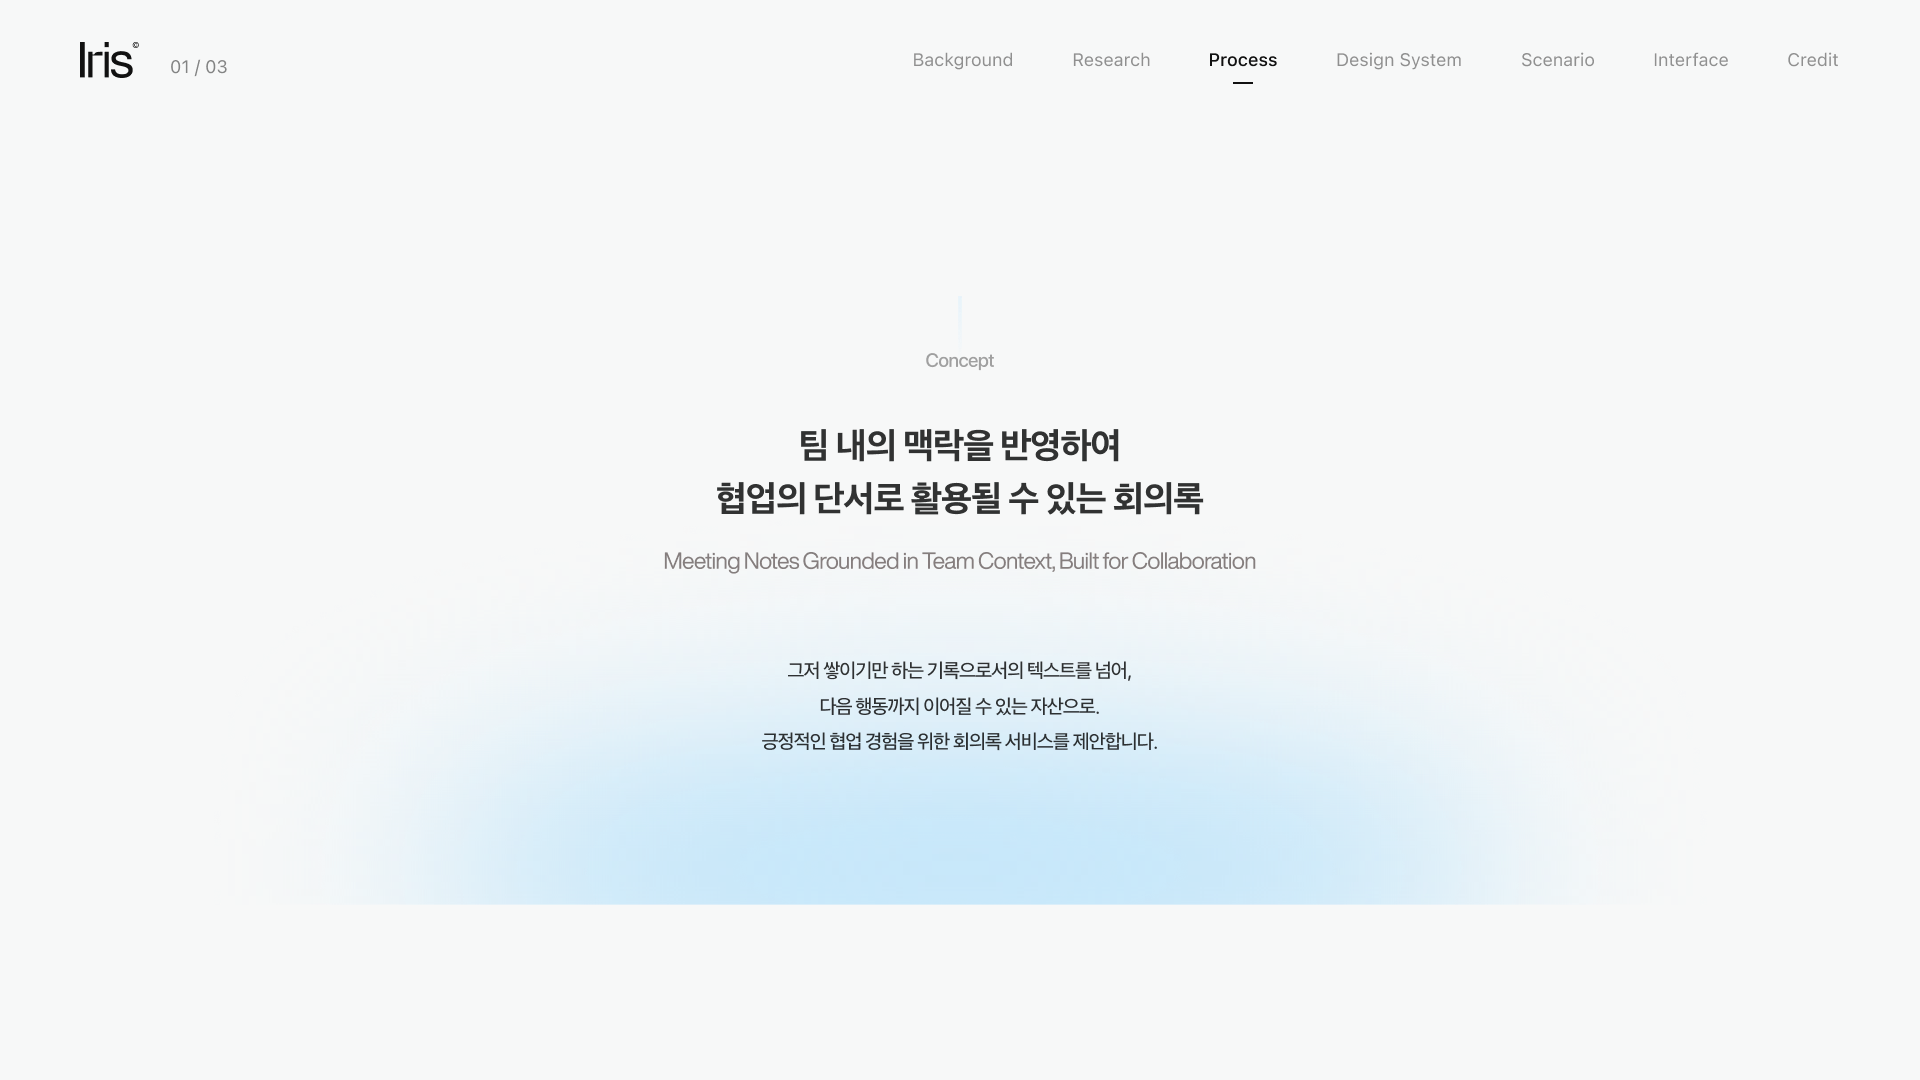
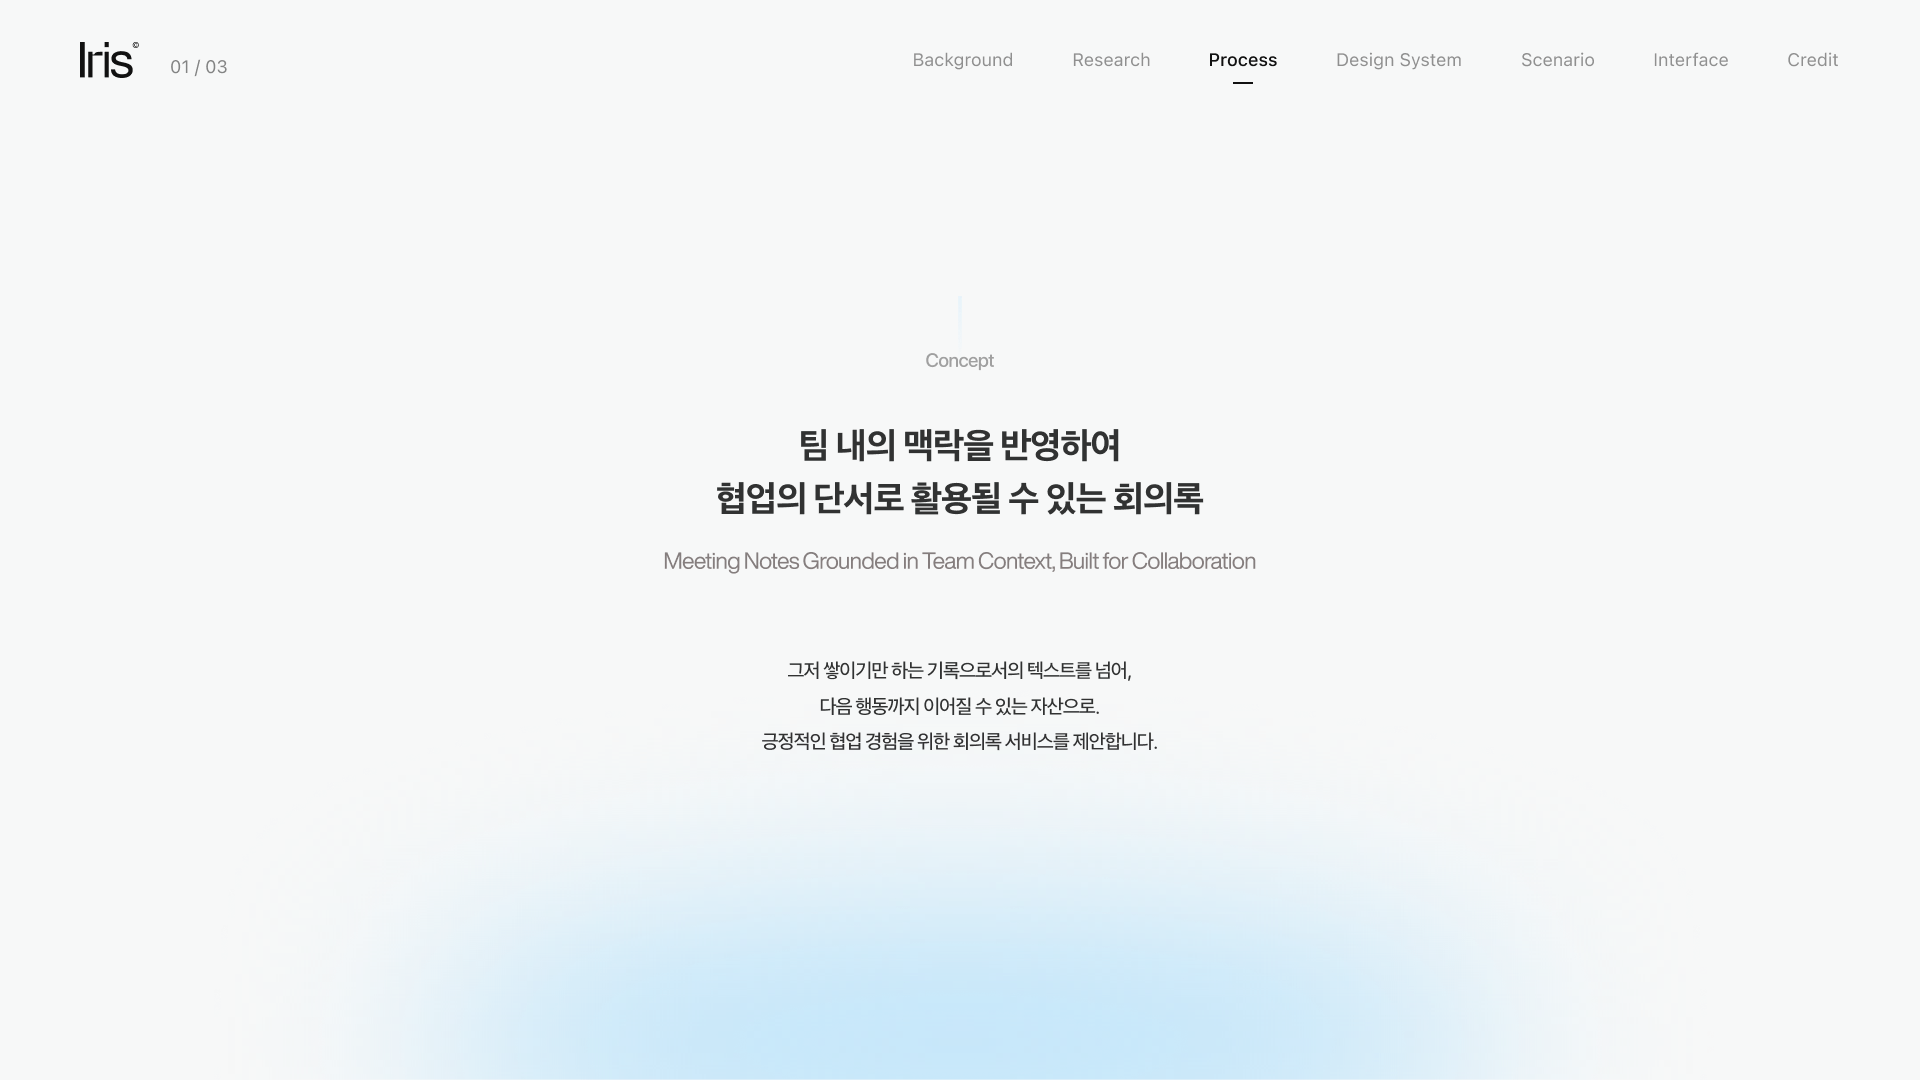
Credit: Ichika·Wakana 두 사람으로 분리(65명), Concept 하단 그라디언트를 화면 아래에 맞춤, 버튼을 배경 밝기에 맞춰 양쪽 따로(밝으면 흰 원+검은 화살표, 어두우면 반투명+흰 화살표), Research 01 끝난 뒤 되감지 않고 아래에 머묾, 손대지 않을 때 새 버전 자동 반영

Changed region(s): [[0.25, 0.6417, 0.75, 1.0]]

diff --git a/media/portrait.js b/media/portrait.js
@@ -1,1 +1,1 @@
-var PORTRAIT = {"01-01": {"bg": ["rgb(255,255,255)", "rgb(255,255,255)"], "wins": [[176, 235, 801, 654, 224.4, 380.0, 1.2374, true, false], [1152, 125, 768, 955, 314.6, 1271.8, 1.0558, true, false]], "nav": "rgb(255,255,255)"}, "01-02": {"bg": ["rgb(247,248,248)", "rgb(247,248,248)"], "wins": [[156, 204, 496, 668, 415.9, 380.0, 1.2262, true, false], [820, 125, 943, 955, 226.7, 1280.9, 1.0462, true, false]], "nav": "rgb(247,248,248)"}, "02-01": {"bg": ["rgb(32,33,40) 0%", "rgb(32,33,40) 26.84%", "rgb(255,255,255) 77.06%", "rgb(255,255,255) 100%"], "wins": [[0, 0, 1920, 1714, 0, 687.2, 0.75, true, false]], "nav": "rgb(32,33,40)"}, "02-02": {"bg": ["rgb(255,255,255)", "rgb(255,255,255)"], "wins": [[148, 206, 454, 604, 413.5, 497.9, 1.35, true, false], [743, 350, 1028, 591, 60.0, 1403.3, 1.284, true, false]], "nav": "rgb(255,255,255)"}, "02-03": {"bg": ["rgb(244,245,245)", "rgb(244,245,245)"], "wins": [[106, 175, 752, 895, 336.6, 380.0, 1.0197, true, false], [971, 125, 949, 955, 266.5, 1367.3, 0.9557, true, false]], "nav": "rgb(244,245,245)"}, "02-04": {"bg": ["rgb(154,197,234) 0%", "rgb(154,197,234) 23.34%", "rgb(247,248,248) 80.56%", "rgb(247,248,248) 100%"], "wins": [[0, 0, 1920, 1953, 0, 597.6, 0.75, true, false]], "nav": "rgb(154,197,234)"}, "03-01": {"bg": ["rgb(247,248,248)", "rgb(247,248,248)"], "wins": [[424, 309, 1070, 639, 40.0, 923.9, 1.271, true, false]], "nav": "rgb(247,248,248)"}, "03-02": {"bg": ["rgb(8,8,8)", "rgb(8,8,8)"], "wins": [[243, 190, 421, 232, 435.8, 578.4, 1.35, true, false], [950, 125, 970, 955, 161.4, 981.6, 1.1518, true, false]], "nav": "rgb(8,8,8)"}, "03-03": {"bg": ["rgb(247,248,248) 0%", "rgb(247,248,248) 21.05%", "rgb(247,248,248) 82.86%", "rgb(247,248,248) 100%"], "wins": [[0, 0, 1920, 2110, 0, 538.8, 0.75, true, false]], "nav": "rgb(247,248,248)"}, "04-01": {"bg": ["rgb(245,247,251)", "rgb(245,247,251)"], "wins": [[180, 120, 1560, 960, 60.0, 923.8, 0.8462, true, false]], "nav": "rgb(245,247,251)"}, "04-02": {"bg": ["rgb(11,12,19)", "rgb(11,12,19)"], "wins": [[284, 125, 1340, 955, 40.0, 845.4, 1.0149, true, false]], "nav": "rgb(11,12,19)"}, "04-03": {"bg": ["rgb(13,14,21) 0%", "rgb(13,14,21) 24.57%", "rgb(13,14,21) 79.33%", "rgb(13,14,21) 100%"], "wins": [[0, 0, 1920, 1869, 0, 629.1, 0.75, true, false]], "nav": "rgb(13,14,21)"}, "04-04": {"bg": ["rgb(179,214,238)", "rgb(179,214,238)"], "wins": [[47, 133, 690, 934, 382.9, 380.0, 0.9772, true, false], [827, 125, 1093, 955, 197.7, 1367.3, 0.9557, true, false]], "nav": "rgb(179,214,238)"}, "05-01": {"bg": ["rgb(12,12,12)", "rgb(10,8,8)"], "wins": [[0, 125, 1697, 955, 40.0, 947.3, 0.8014, true, false]], "nav": "rgb(12,12,12)"}, "06-01": {"bg": ["rgb(253,255,255)", "rgb(253,255,255)"], "wins": [[172, 430, 554, 340, 346.0, 615.8, 1.35, false, false], [862, 288, 921, 623, 70.0, 1164.8, 1.4115, true, false]], "nav": "rgb(253,255,255)"}, "06-02": {"bg": ["rgb(232,238,244)", "rgb(232,238,244)"], "wins": [[782, 206, 356, 181, 488.6, 767.1, 1.3, false, false], [435, 392, 1049, 652, 60.0, 1072.4, 1.2583, true, false]], "nav": "rgb(232,238,244)"}, "06-03": {"bg": ["rgb(11,12,19)", "rgb(11,12,19)"], "wins": [[805, 170, 310, 220, 518.5, 725.0, 1.3, false, false], [436, 392, 1048, 678, 60.0, 1081.0, 1.2595, true, false]], "nav": "rgb(11,12,19)"}, "06-04": {"bg": ["rgb(11,12,19)", "rgb(11,12,19)"], "wins": [[818, 170, 285, 220, 534.8, 728.2, 1.3, false, false], [436, 392, 1048, 673, 60.0, 1084.2, 1.2595, true, false]], "nav": "rgb(11,12,19)"}, "06-05": {"bg": ["rgb(11,12,19)", "rgb(41,49,63)"], "wins": [[829, 171, 262, 214, 549.7, 729.3, 1.3, false, true], [436, 392, 1049, 678, 60.0, 1077.5, 1.2583, true, true]], "nav": "rgb(11,12,19)"}, "06-06": {"bg": ["rgb(41,43,48)", "rgb(41,43,48)"], "wins": [[221, 127, 1479, 953, 40.0, 891.8, 0.9195, true, false]], "nav": "rgb(41,43,48)"}, "06-07": {"bg": ["rgb(38,42,44)", "rgb(38,42,44)"], "wins": [[760, 125, 400, 265, 460.0, 689.5, 1.3, false, false], [436, 392, 1048, 688, 60.0, 1104.0, 1.2595, true, false]], "nav": "rgb(38,42,44)"}, "06-08": {"bg": ["rgb(38,42,44)", "rgb(38,42,44)"], "wins": [[332, 125, 1255, 730, 40.0, 934.5, 1.0837, true, false]], "nav": "rgb(38,42,44)"}, "06-09": {"bg": ["rgb(244,248,251)", "rgb(244,248,251)"], "wins": [[230, 407, 439, 387, 423.7, 462.7, 1.35, false, false], [862, 202, 921, 795, 70.0, 1075.2, 1.4115, true, false]], "nav": "rgb(244,248,251)"}, "06-10": {"bg": ["rgb(255,255,255)", "rgb(255,255,255)"], "wins": [[278, 125, 1363, 955, 40.0, 853.6, 0.9978, true, false]], "nav": "rgb(255,255,255)"}, "06-11": {"bg": ["rgb(235,240,246)", "rgb(235,240,246)"], "wins": [[157, 290, 550, 618, 379.9, 380.0, 1.2366, false, false], [872, 156, 915, 887, 176.7, 1226.6, 1.1876, true, false]], "nav": "rgb(235,240,246)"}, "06-12": {"bg": ["rgb(232,238,244)", "rgb(232,238,244)"], "wins": [[178, 156, 1565, 886, 40.0, 945.0, 0.869, true, false]], "nav": "rgb(232,238,244)"}, "06-13": {"bg": ["rgb(235,240,246)", "rgb(235,240,246)"], "wins": [[156, 448, 704, 303, 244.8, 505.5, 1.35, false, false], [862, 156, 877, 887, 151.5, 1004.5, 1.2965, true, false]], "nav": "rgb(235,240,246)"}, "06-14": {"bg": ["rgb(235,240,246)", "rgb(235,240,246)"], "wins": [[157, 459, 703, 287, 245.5, 660.1, 1.35, false, false], [862, 294, 921, 611, 70.0, 1137.5, 1.4115, true, false]], "nav": "rgb(235,240,246)"}, "06-15": {"bg": ["rgb(235,240,246)", "rgb(235,240,246)"], "wins": [[156, 473, 704, 253, 244.8, 753.9, 1.35, false, false], [862, 350, 773, 497, 159.6, 1185.5, 1.45, true, false]], "nav": "rgb(235,240,246)"}, "07-01": {"bg": ["rgb(255,255,255)", "rgb(255,255,255)"], "wins": [[176, 284, 652, 632, 308.6, 380.0, 1.2619, true, false], [1125, 198, 612, 807, 333.9, 1261.6, 1.2619, true, false]], "nav": "rgb(255,255,255)"}, "07-02": {"bg": ["rgb(255,255,255) 0%", "rgb(255,255,255) 33.85%", "rgb(255,255,255) 70.06%", "rgb(255,255,255) 100%"], "wins": [[0, 0, 1920, 1236, 0, 866.5, 0.75, true, false]], "nav": "rgb(255,255,255)"}};
+var PORTRAIT = {"01-01": {"bg": ["rgb(255,255,255)", "rgb(255,255,255)"], "wins": [[176, 235, 801, 654, 224.4, 380.0, 1.2374, true, false], [1152, 125, 768, 955, 314.6, 1271.8, 1.0558, true, false]], "nav": "rgb(255,255,255)"}, "01-02": {"bg": ["rgb(247,248,248)", "rgb(247,248,248)"], "wins": [[156, 204, 496, 668, 415.9, 380.0, 1.2262, true, false], [820, 125, 943, 955, 226.7, 1280.9, 1.0462, true, false]], "nav": "rgb(247,248,248)"}, "02-01": {"bg": ["rgb(32,33,40) 0%", "rgb(32,33,40) 26.84%", "rgb(255,255,255) 77.06%", "rgb(255,255,255) 100%"], "wins": [[0, 0, 1920, 1714, 0, 687.2, 0.75, true, false]], "nav": "rgb(32,33,40)"}, "02-02": {"bg": ["rgb(255,255,255)", "rgb(255,255,255)"], "wins": [[148, 206, 454, 604, 413.5, 497.9, 1.35, true, false], [743, 350, 1028, 591, 60.0, 1403.3, 1.284, true, false]], "nav": "rgb(255,255,255)"}, "02-03": {"bg": ["rgb(244,245,245)", "rgb(244,245,245)"], "wins": [[106, 175, 752, 895, 336.6, 380.0, 1.0197, true, false], [971, 125, 949, 955, 266.5, 1367.3, 0.9557, true, false]], "nav": "rgb(244,245,245)"}, "02-04": {"bg": ["rgb(154,197,234) 0%", "rgb(154,197,234) 23.34%", "rgb(247,248,248) 80.56%", "rgb(247,248,248) 100%"], "wins": [[0, 0, 1920, 1953, 0, 597.6, 0.75, true, false]], "nav": "rgb(154,197,234)"}, "03-01": {"bg": ["rgb(247,248,248)", "rgb(247,248,248)"], "wins": [[420, 309, 1081, 771, 40.0, 845.0, 1.2581, true, false]], "nav": "rgb(247,248,248)"}, "03-02": {"bg": ["rgb(8,8,8)", "rgb(8,8,8)"], "wins": [[243, 190, 421, 232, 435.8, 578.4, 1.35, true, false], [950, 125, 970, 955, 161.4, 981.6, 1.1518, true, false]], "nav": "rgb(8,8,8)"}, "03-03": {"bg": ["rgb(247,248,248) 0%", "rgb(247,248,248) 21.05%", "rgb(247,248,248) 82.86%", "rgb(247,248,248) 100%"], "wins": [[0, 0, 1920, 2110, 0, 538.8, 0.75, true, false]], "nav": "rgb(247,248,248)"}, "04-01": {"bg": ["rgb(245,247,251)", "rgb(245,247,251)"], "wins": [[180, 120, 1560, 960, 60.0, 923.8, 0.8462, true, false]], "nav": "rgb(245,247,251)"}, "04-02": {"bg": ["rgb(11,12,19)", "rgb(11,12,19)"], "wins": [[284, 125, 1340, 955, 40.0, 845.4, 1.0149, true, false]], "nav": "rgb(11,12,19)"}, "04-03": {"bg": ["rgb(13,14,21) 0%", "rgb(13,14,21) 24.57%", "rgb(13,14,21) 79.33%", "rgb(13,14,21) 100%"], "wins": [[0, 0, 1920, 1869, 0, 629.1, 0.75, true, false]], "nav": "rgb(13,14,21)"}, "04-04": {"bg": ["rgb(179,214,238)", "rgb(179,214,238)"], "wins": [[47, 133, 690, 934, 382.9, 380.0, 0.9772, true, false], [827, 125, 1093, 955, 197.7, 1367.3, 0.9557, true, false]], "nav": "rgb(179,214,238)"}, "05-01": {"bg": ["rgb(12,12,12)", "rgb(10,8,8)"], "wins": [[0, 125, 1697, 955, 40.0, 947.3, 0.8014, true, false]], "nav": "rgb(12,12,12)"}, "06-01": {"bg": ["rgb(253,255,255)", "rgb(253,255,255)"], "wins": [[172, 430, 554, 340, 346.0, 615.8, 1.35, false, false], [862, 288, 921, 623, 70.0, 1164.8, 1.4115, true, false]], "nav": "rgb(253,255,255)"}, "06-02": {"bg": ["rgb(232,238,244)", "rgb(232,238,244)"], "wins": [[782, 206, 356, 181, 488.6, 767.1, 1.3, false, false], [435, 392, 1049, 652, 60.0, 1072.4, 1.2583, true, false]], "nav": "rgb(232,238,244)"}, "06-03": {"bg": ["rgb(11,12,19)", "rgb(11,12,19)"], "wins": [[805, 170, 310, 220, 518.5, 725.0, 1.3, false, false], [436, 392, 1048, 678, 60.0, 1081.0, 1.2595, true, false]], "nav": "rgb(11,12,19)"}, "06-04": {"bg": ["rgb(11,12,19)", "rgb(11,12,19)"], "wins": [[818, 170, 285, 220, 534.8, 728.2, 1.3, false, false], [436, 392, 1048, 673, 60.0, 1084.2, 1.2595, true, false]], "nav": "rgb(11,12,19)"}, "06-05": {"bg": ["rgb(11,12,19)", "rgb(41,49,63)"], "wins": [[829, 171, 262, 214, 549.7, 729.3, 1.3, false, true], [436, 392, 1049, 678, 60.0, 1077.5, 1.2583, true, true]], "nav": "rgb(11,12,19)"}, "06-06": {"bg": ["rgb(41,43,48)", "rgb(41,43,48)"], "wins": [[221, 127, 1479, 953, 40.0, 891.8, 0.9195, true, false]], "nav": "rgb(41,43,48)"}, "06-07": {"bg": ["rgb(38,42,44)", "rgb(38,42,44)"], "wins": [[760, 125, 400, 265, 460.0, 689.5, 1.3, false, false], [436, 392, 1048, 688, 60.0, 1104.0, 1.2595, true, false]], "nav": "rgb(38,42,44)"}, "06-08": {"bg": ["rgb(38,42,44)", "rgb(38,42,44)"], "wins": [[332, 125, 1255, 730, 40.0, 934.5, 1.0837, true, false]], "nav": "rgb(38,42,44)"}, "06-09": {"bg": ["rgb(244,248,251)", "rgb(244,248,251)"], "wins": [[230, 407, 439, 387, 423.7, 462.7, 1.35, false, false], [862, 202, 921, 795, 70.0, 1075.2, 1.4115, true, false]], "nav": "rgb(244,248,251)"}, "06-10": {"bg": ["rgb(255,255,255)", "rgb(255,255,255)"], "wins": [[278, 125, 1363, 955, 40.0, 853.6, 0.9978, true, false]], "nav": "rgb(255,255,255)"}, "06-11": {"bg": ["rgb(235,240,246)", "rgb(235,240,246)"], "wins": [[157, 290, 550, 618, 379.9, 380.0, 1.2366, false, false], [872, 156, 915, 887, 176.7, 1226.6, 1.1876, true, false]], "nav": "rgb(235,240,246)"}, "06-12": {"bg": ["rgb(232,238,244)", "rgb(232,238,244)"], "wins": [[178, 156, 1565, 886, 40.0, 945.0, 0.869, true, false]], "nav": "rgb(232,238,244)"}, "06-13": {"bg": ["rgb(235,240,246)", "rgb(235,240,246)"], "wins": [[156, 448, 704, 303, 244.8, 505.5, 1.35, false, false], [862, 156, 877, 887, 151.5, 1004.5, 1.2965, true, false]], "nav": "rgb(235,240,246)"}, "06-14": {"bg": ["rgb(235,240,246)", "rgb(235,240,246)"], "wins": [[157, 459, 703, 287, 245.5, 660.1, 1.35, false, false], [862, 294, 921, 611, 70.0, 1137.5, 1.4115, true, false]], "nav": "rgb(235,240,246)"}, "06-15": {"bg": ["rgb(235,240,246)", "rgb(235,240,246)"], "wins": [[156, 473, 704, 253, 244.8, 753.9, 1.35, false, false], [862, 350, 773, 497, 159.6, 1185.5, 1.45, true, false]], "nav": "rgb(235,240,246)"}, "07-01": {"bg": ["rgb(255,255,255)", "rgb(255,255,255)"], "wins": [[176, 284, 652, 632, 308.6, 380.0, 1.2619, true, false], [1125, 198, 612, 807, 333.9, 1261.6, 1.2619, true, false]], "nav": "rgb(255,255,255)"}, "07-02": {"bg": ["rgb(255,255,255) 0%", "rgb(255,255,255) 33.85%", "rgb(255,255,255) 70.06%", "rgb(255,255,255) 100%"], "wins": [[0, 0, 1920, 1236, 0, 866.5, 0.75, true, false]], "nav": "rgb(255,255,255)"}};
